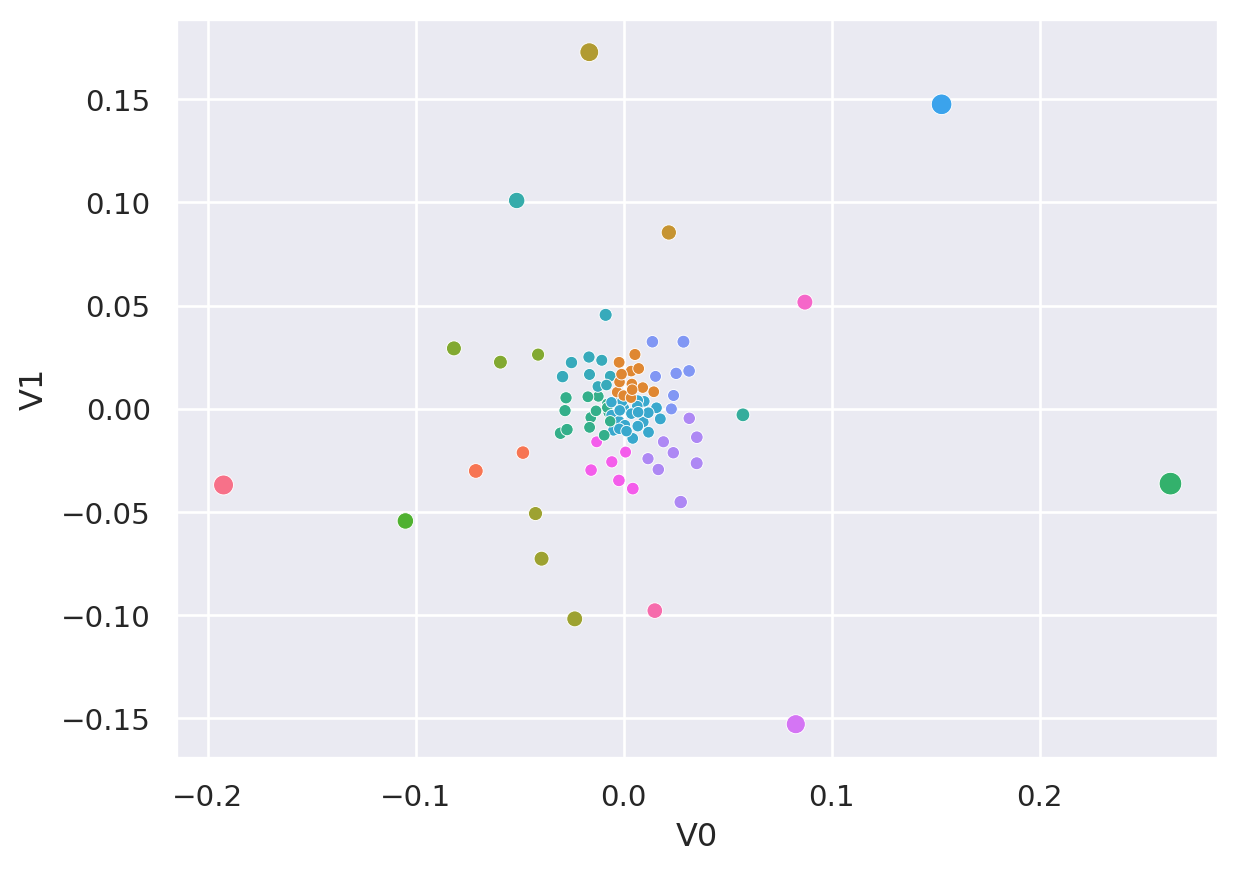
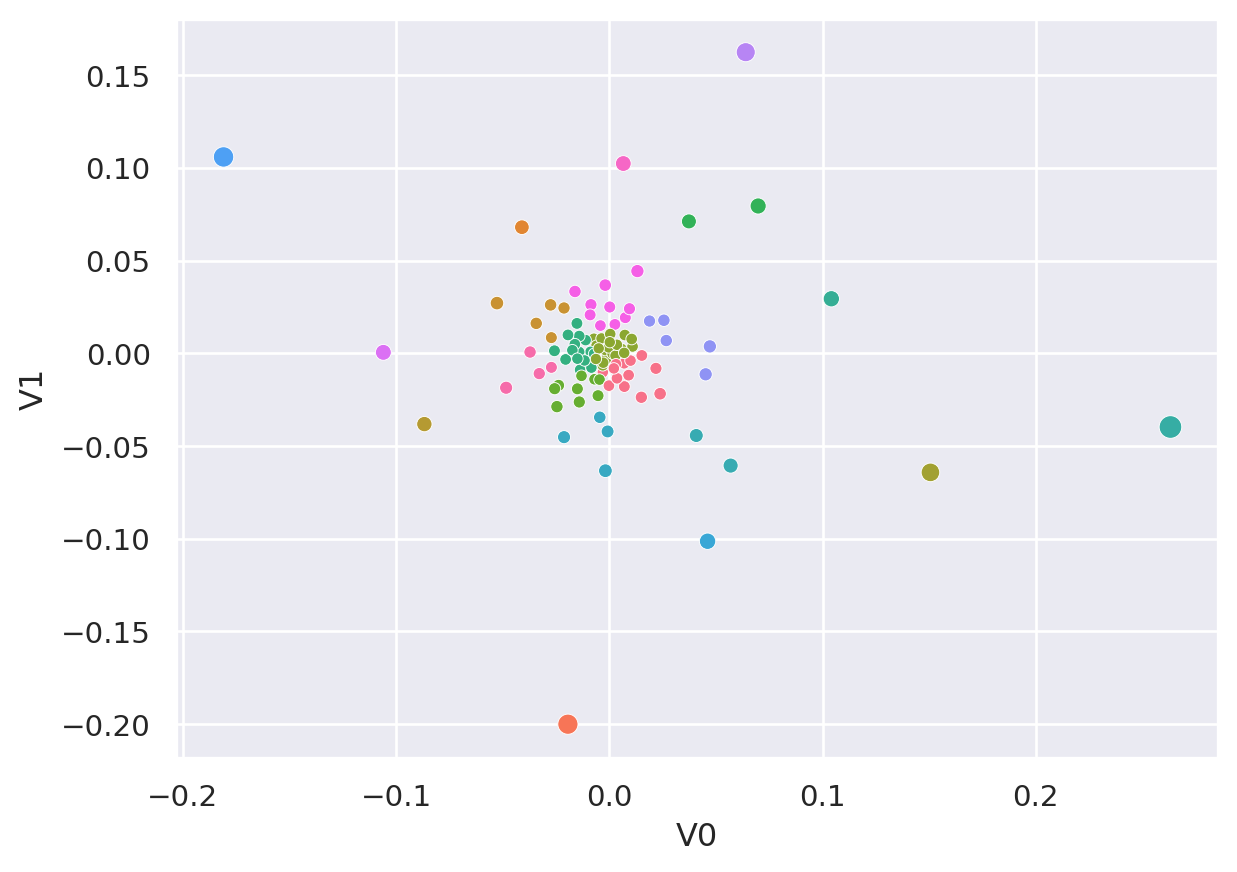
Added quarto presentation layer; updated requirements.txt

diff --git a/quarto/gcp_public_datasets.html b/quarto/gcp_public_datasets.html
@@ -7,7 +7,7 @@
 <meta name="viewport" content="width=device-width, initial-scale=1.0, user-scalable=yes">
 
 
-<title>Quarto Basics</title>
+<title>Python Package Clustering</title>
 <style>
 code{white-space: pre-wrap;}
 span.smallcaps{font-variant: small-caps;}
@@ -57,7 +57,7 @@ pre > code.sourceCode > span > a:first-child::before { text-decoration: underlin
 </style>
 
 
-<script src="gcp_public_datasets_files/libs/clipboard/clipboard.min.js"></script>
+<script src="https://cdnjs.cloudflare.com/ajax/libs/jquery/3.5.1/jquery.min.js" integrity="sha512-bLT0Qm9VnAYZDflyKcBaQ2gg0hSYNQrJ8RilYldYQ1FxQYoCLtUjuuRuZo+fjqhx/qtq/1itJ0C2ejDxltZVFg==" crossorigin="anonymous"></script><script src="gcp_public_datasets_files/libs/clipboard/clipboard.min.js"></script>
 <script src="gcp_public_datasets_files/libs/quarto-html/quarto.js"></script>
 <script src="gcp_public_datasets_files/libs/quarto-html/popper.min.js"></script>
 <script src="gcp_public_datasets_files/libs/quarto-html/tippy.umd.min.js"></script>
@@ -67,6 +67,25 @@ pre > code.sourceCode > span > a:first-child::before { text-decoration: underlin
 <script src="gcp_public_datasets_files/libs/bootstrap/bootstrap.min.js"></script>
 <link href="gcp_public_datasets_files/libs/bootstrap/bootstrap-icons.css" rel="stylesheet">
 <link href="gcp_public_datasets_files/libs/bootstrap/bootstrap.min.css" rel="stylesheet" id="quarto-bootstrap" data-mode="light">
+<script src="https://cdnjs.cloudflare.com/ajax/libs/require.js/2.3.6/require.min.js" integrity="sha512-c3Nl8+7g4LMSTdrm621y7kf9v3SDPnhxLNhcjFJbKECVnmZHTdo+IRO05sNLTH/D3vA6u1X32ehoLC7WFVdheg==" crossorigin="anonymous"></script>
+
+<script type="application/javascript">define('jquery', [],function() {return window.jQuery;})</script>
+<script type="text/javascript">
+window.PlotlyConfig = {MathJaxConfig: 'local'};
+if (window.MathJax && window.MathJax.Hub && window.MathJax.Hub.Config) {window.MathJax.Hub.Config({SVG: {font: "STIX-Web"}});}
+if (typeof require !== 'undefined') {
+require.undef("plotly");
+requirejs.config({
+    paths: {
+        'plotly': ['https://cdn.plot.ly/plotly-2.35.2.min']
+    }
+});
+require(['plotly'], function(Plotly) {
+    window._Plotly = Plotly;
+});
+}
+</script>
+
 
 
 </head>
@@ -79,7 +98,7 @@ pre > code.sourceCode > span > a:first-child::before { text-decoration: underlin
 
 <header id="title-block-header" class="quarto-title-block default">
 <div class="quarto-title">
-<h1 class="title">Quarto Basics</h1>
+<h1 class="title">Python Package Clustering</h1>
 </div>
 
 
@@ -110,7 +129,7 @@ pre > code.sourceCode > span > a:first-child::before { text-decoration: underlin
 <span id="cb1-9"><a href="#cb1-9" aria-hidden="true" tabindex="-1"></a><span class="im">import</span> os</span>
 <span id="cb1-10"><a href="#cb1-10" aria-hidden="true" tabindex="-1"></a></span>
 <span id="cb1-11"><a href="#cb1-11" aria-hidden="true" tabindex="-1"></a><span class="co"># import plotting libraries</span></span>
-<span id="cb1-12"><a href="#cb1-12" aria-hidden="true" tabindex="-1"></a><span class="im">import</span> seaborn <span class="im">as</span> sns</span>
+<span id="cb1-12"><a href="#cb1-12" aria-hidden="true" tabindex="-1"></a><span class="im">import</span> plotly.express <span class="im">as</span> px</span>
 <span id="cb1-13"><a href="#cb1-13" aria-hidden="true" tabindex="-1"></a></span>
 <span id="cb1-14"><a href="#cb1-14" aria-hidden="true" tabindex="-1"></a><span class="co"># ---------------</span></span>
 <span id="cb1-15"><a href="#cb1-15" aria-hidden="true" tabindex="-1"></a><span class="co"># ---Pull Data---</span></span>
@@ -122,36 +141,67 @@ pre > code.sourceCode > span > a:first-child::before { text-decoration: underlin
 <span id="cb1-21"><a href="#cb1-21" aria-hidden="true" tabindex="-1"></a><span class="co"># read data to df</span></span>
 <span id="cb1-22"><a href="#cb1-22" aria-hidden="true" tabindex="-1"></a>df <span class="op">=</span> pd.read_csv(prod_path, index_col<span class="op">=</span><span class="st">"package"</span>)</span>
 <span id="cb1-23"><a href="#cb1-23" aria-hidden="true" tabindex="-1"></a></span>
-<span id="cb1-24"><a href="#cb1-24" aria-hidden="true" tabindex="-1"></a><span class="co"># ---------------</span></span>
-<span id="cb1-25"><a href="#cb1-25" aria-hidden="true" tabindex="-1"></a><span class="co"># ---Plot Data---</span></span>
-<span id="cb1-26"><a href="#cb1-26" aria-hidden="true" tabindex="-1"></a><span class="co"># ---------------</span></span>
-<span id="cb1-27"><a href="#cb1-27" aria-hidden="true" tabindex="-1"></a></span>
-<span id="cb1-28"><a href="#cb1-28" aria-hidden="true" tabindex="-1"></a><span class="co"># set plotting config</span></span>
-<span id="cb1-29"><a href="#cb1-29" aria-hidden="true" tabindex="-1"></a>sns.set_theme(style<span class="op">=</span><span class="st">"darkgrid"</span>)</span>
-<span id="cb1-30"><a href="#cb1-30" aria-hidden="true" tabindex="-1"></a>size_scaler <span class="op">=</span> <span class="dv">10</span><span class="op">**-</span><span class="dv">3</span></span>
-<span id="cb1-31"><a href="#cb1-31" aria-hidden="true" tabindex="-1"></a></span>
-<span id="cb1-32"><a href="#cb1-32" aria-hidden="true" tabindex="-1"></a><span class="co"># plot scatterplot of package distances</span></span>
-<span id="cb1-33"><a href="#cb1-33" aria-hidden="true" tabindex="-1"></a>scatterplot <span class="op">=</span> sns.scatterplot(</span>
-<span id="cb1-34"><a href="#cb1-34" aria-hidden="true" tabindex="-1"></a>    data<span class="op">=</span>df,</span>
-<span id="cb1-35"><a href="#cb1-35" aria-hidden="true" tabindex="-1"></a>    x<span class="op">=</span>df[<span class="st">"V0"</span>],</span>
-<span id="cb1-36"><a href="#cb1-36" aria-hidden="true" tabindex="-1"></a>    y<span class="op">=</span>df[<span class="st">"V1"</span>],</span>
-<span id="cb1-37"><a href="#cb1-37" aria-hidden="true" tabindex="-1"></a>    size<span class="op">=</span>df[<span class="st">"count"</span>].<span class="bu">apply</span>(<span class="kw">lambda</span> x: size_scaler <span class="op">*</span> x),</span>
-<span id="cb1-38"><a href="#cb1-38" aria-hidden="true" tabindex="-1"></a>    hue<span class="op">=</span>df[<span class="st">"cluster"</span>],</span>
-<span id="cb1-39"><a href="#cb1-39" aria-hidden="true" tabindex="-1"></a>    palette<span class="op">=</span>sns.color_palette(<span class="st">"husl"</span>, <span class="bu">len</span>(df[<span class="st">"cluster"</span>].unique())),</span>
-<span id="cb1-40"><a href="#cb1-40" aria-hidden="true" tabindex="-1"></a>    legend<span class="op">=</span><span class="va">False</span>,</span>
-<span id="cb1-41"><a href="#cb1-41" aria-hidden="true" tabindex="-1"></a>)</span></code><button title="Copy to Clipboard" class="code-copy-button"><i class="bi"></i></button></pre></div>
+<span id="cb1-24"><a href="#cb1-24" aria-hidden="true" tabindex="-1"></a><span class="co"># convert "cluster" col to str</span></span>
+<span id="cb1-25"><a href="#cb1-25" aria-hidden="true" tabindex="-1"></a>df[<span class="st">"cluster"</span>] <span class="op">=</span> df[<span class="st">"cluster"</span>].astype(<span class="bu">str</span>)</span>
+<span id="cb1-26"><a href="#cb1-26" aria-hidden="true" tabindex="-1"></a></span>
+<span id="cb1-27"><a href="#cb1-27" aria-hidden="true" tabindex="-1"></a><span class="co"># ---------------</span></span>
+<span id="cb1-28"><a href="#cb1-28" aria-hidden="true" tabindex="-1"></a><span class="co"># ---Plot Data---</span></span>
+<span id="cb1-29"><a href="#cb1-29" aria-hidden="true" tabindex="-1"></a><span class="co"># ---------------</span></span>
+<span id="cb1-30"><a href="#cb1-30" aria-hidden="true" tabindex="-1"></a></span>
+<span id="cb1-31"><a href="#cb1-31" aria-hidden="true" tabindex="-1"></a><span class="co"># set plotting config</span></span>
+<span id="cb1-32"><a href="#cb1-32" aria-hidden="true" tabindex="-1"></a>size_scaler <span class="op">=</span> <span class="dv">10</span><span class="op">**-</span><span class="dv">3</span></span>
+<span id="cb1-33"><a href="#cb1-33" aria-hidden="true" tabindex="-1"></a></span>
+<span id="cb1-34"><a href="#cb1-34" aria-hidden="true" tabindex="-1"></a><span class="co"># plot scatterplot of package distances</span></span>
+<span id="cb1-35"><a href="#cb1-35" aria-hidden="true" tabindex="-1"></a>scatterplot <span class="op">=</span> px.scatter(</span>
+<span id="cb1-36"><a href="#cb1-36" aria-hidden="true" tabindex="-1"></a>    data_frame<span class="op">=</span>df,</span>
+<span id="cb1-37"><a href="#cb1-37" aria-hidden="true" tabindex="-1"></a>    x<span class="op">=</span><span class="st">"V0"</span>,</span>
+<span id="cb1-38"><a href="#cb1-38" aria-hidden="true" tabindex="-1"></a>    y<span class="op">=</span><span class="st">"V1"</span>,</span>
+<span id="cb1-39"><a href="#cb1-39" aria-hidden="true" tabindex="-1"></a>    size<span class="op">=</span>df[<span class="st">"count"</span>].<span class="bu">apply</span>(<span class="kw">lambda</span> x: size_scaler <span class="op">*</span> x),</span>
+<span id="cb1-40"><a href="#cb1-40" aria-hidden="true" tabindex="-1"></a>    color<span class="op">=</span><span class="st">"cluster"</span>,</span>
+<span id="cb1-41"><a href="#cb1-41" aria-hidden="true" tabindex="-1"></a>    color_discrete_sequence<span class="op">=</span>px.colors.qualitative.Bold,</span>
+<span id="cb1-42"><a href="#cb1-42" aria-hidden="true" tabindex="-1"></a>    category_orders<span class="op">=</span>{<span class="st">"cluster"</span>: <span class="bu">sorted</span>(df[<span class="st">"cluster"</span>].unique(), key<span class="op">=</span><span class="bu">int</span>)},</span>
+<span id="cb1-43"><a href="#cb1-43" aria-hidden="true" tabindex="-1"></a>    text<span class="op">=</span>df.index,</span>
+<span id="cb1-44"><a href="#cb1-44" aria-hidden="true" tabindex="-1"></a>)</span>
+<span id="cb1-45"><a href="#cb1-45" aria-hidden="true" tabindex="-1"></a></span>
+<span id="cb1-46"><a href="#cb1-46" aria-hidden="true" tabindex="-1"></a><span class="co"># adjust text position</span></span>
+<span id="cb1-47"><a href="#cb1-47" aria-hidden="true" tabindex="-1"></a>scatterplot.update_traces(textposition<span class="op">=</span><span class="st">"top center"</span>)</span>
+<span id="cb1-48"><a href="#cb1-48" aria-hidden="true" tabindex="-1"></a></span>
+<span id="cb1-49"><a href="#cb1-49" aria-hidden="true" tabindex="-1"></a><span class="co"># show plot</span></span>
+<span id="cb1-50"><a href="#cb1-50" aria-hidden="true" tabindex="-1"></a>scatterplot.show()</span></code><button title="Copy to Clipboard" class="code-copy-button"><i class="bi"></i></button></pre></div>
 </details>
-<div class="cell-output cell-output-display">
-<div id="fig-python-packages" class="quarto-float quarto-figure quarto-figure-center anchored">
+<div id="fig-python-packages" class="cell-output cell-output-display quarto-float quarto-figure quarto-figure-center anchored">
 <figure class="quarto-float quarto-float-fig figure">
 <div aria-describedby="fig-python-packages-caption-0ceaefa1-69ba-4598-a22c-09a6ac19f8ca">
-<img src="gcp_public_datasets_files/figure-html/fig-python-packages-output-1.png" width="619" height="436" class="figure-img">
+<div>                            <div id="1b7842e2-5824-4198-ba36-a4876bd7f5f9" class="plotly-graph-div" style="height:525px; width:100%;"></div>            <script type="text/javascript">                require(["plotly"], function(Plotly) {                    window.PLOTLYENV=window.PLOTLYENV || {};                                    if (document.getElementById("1b7842e2-5824-4198-ba36-a4876bd7f5f9")) {                    Plotly.newPlot(                        "1b7842e2-5824-4198-ba36-a4876bd7f5f9",                        [{"hovertemplate":"cluster=0\u003cbr\u003eV0=%{x}\u003cbr\u003eV1=%{y}\u003cbr\u003esize=%{marker.size}\u003cbr\u003epackage=%{text}\u003cextra\u003e\u003c\u002fextra\u003e","legendgroup":"0","marker":{"color":"rgb(127, 60, 141)","size":[11.729000000000001,17.649,16.672,18.234,13.188,23.201,11.655,14.043000000000001,15.772,26.269000000000002,15.546000000000001,30.959,12.780000000000001],"sizemode":"area","sizeref":0.6725074999999999,"symbol":"circle"},"mode":"markers+text","name":"0","orientation":"v","showlegend":true,"text":["AnsibleModule","StringIO","_","db","distutils","matplotlib","openerp","pandas","swgpy","test","util","utils","xml"],"x":[-0.0030564957255296,0.0152386071752057,0.0090397580329389,0.0070442007438318,0.0069421216614221,0.0218568348074214,0.0031337760549723,0.0099351427556134,-0.0001919091902632,0.0150207218488203,0.0035872701453742,0.0238145806825034,0.0021315932142691],"xaxis":"x","y":[-0.0102289439289239,-0.0011898904404305,-0.0117993372975038,-0.0179668837084875,-0.0054316833528379,-0.0081440524227212,-0.0058858943188863,-0.0039568336648231,-0.0174663358535828,-0.0237386603885716,-0.0134827029618917,-0.0218259078791392,-0.0081552956130484],"yaxis":"y","type":"scatter","textposition":"top center"},{"hovertemplate":"cluster=1\u003cbr\u003eV0=%{x}\u003cbr\u003eV1=%{y}\u003cbr\u003esize=%{marker.size}\u003cbr\u003epackage=%{text}\u003cextra\u003e\u003c\u002fextra\u003e","legendgroup":"1","marker":{"color":"rgb(17, 165, 121)","size":[198.25300000000001],"sizemode":"area","sizeref":0.6725074999999999,"symbol":"circle"},"mode":"markers+text","name":"1","orientation":"v","showlegend":true,"text":["__future__"],"x":[-0.0194325001439445],"xaxis":"x","y":[-0.2000719507597643],"yaxis":"y","type":"scatter","textposition":"top center"},{"hovertemplate":"cluster=2\u003cbr\u003eV0=%{x}\u003cbr\u003eV1=%{y}\u003cbr\u003esize=%{marker.size}\u003cbr\u003epackage=%{text}\u003cextra\u003e\u003c\u002fextra\u003e","legendgroup":"2","marker":{"color":"rgb(57, 105, 172)","size":[69.748],"sizemode":"area","sizeref":0.6725074999999999,"symbol":"circle"},"mode":"markers+text","name":"2","orientation":"v","showlegend":true,"text":["a"],"x":[-0.0410102945650061],"xaxis":"x","y":[0.0680030318778531],"yaxis":"y","type":"scatter","textposition":"top center"},{"hovertemplate":"cluster=3\u003cbr\u003eV0=%{x}\u003cbr\u003eV1=%{y}\u003cbr\u003esize=%{marker.size}\u003cbr\u003epackage=%{text}\u003cextra\u003e\u003c\u002fextra\u003e","legendgroup":"3","marker":{"color":"rgb(242, 183, 1)","size":[28.018,48.528,26.053,21.519000000000002,29.798000000000002],"sizemode":"area","sizeref":0.6725074999999999,"symbol":"circle"},"mode":"markers+text","name":"3","orientation":"v","showlegend":true,"text":["argparse","collections","copy","scipy","shutil"],"x":[-0.0342804932178723,-0.0527021604637645,-0.0212576670367853,-0.0271997599113446,-0.0275524864981029],"xaxis":"x","y":[0.0161291710938576,0.0270554698578215,0.0244276631258182,0.0084348273412219,0.0260954136008967],"yaxis":"y","type":"scatter","textposition":"top center"},{"hovertemplate":"cluster=4\u003cbr\u003eV0=%{x}\u003cbr\u003eV1=%{y}\u003cbr\u003esize=%{marker.size}\u003cbr\u003epackage=%{text}\u003cextra\u003e\u003c\u002fextra\u003e","legendgroup":"4","marker":{"color":"rgb(231, 63, 116)","size":[82.849],"sizemode":"area","sizeref":0.6725074999999999,"symbol":"circle"},"mode":"markers+text","name":"4","orientation":"v","showlegend":true,"text":["datetime"],"x":[-0.0867603486450543],"xaxis":"x","y":[-0.0382062177754234],"yaxis":"y","type":"scatter","textposition":"top center"},{"hovertemplate":"cluster=5\u003cbr\u003eV0=%{x}\u003cbr\u003eV1=%{y}\u003cbr\u003esize=%{marker.size}\u003cbr\u003epackage=%{text}\u003cextra\u003e\u003c\u002fextra\u003e","legendgroup":"5","marker":{"color":"rgb(128, 186, 90)","size":[157.721],"sizemode":"area","sizeref":0.6725074999999999,"symbol":"circle"},"mode":"markers+text","name":"5","orientation":"v","showlegend":true,"text":["django"],"x":[0.1506101974330727],"xaxis":"x","y":[-0.064250098666103],"yaxis":"y","type":"scatter","textposition":"top center"},{"hovertemplate":"cluster=6\u003cbr\u003eV0=%{x}\u003cbr\u003eV1=%{y}\u003cbr\u003esize=%{marker.size}\u003cbr\u003epackage=%{text}\u003cextra\u003e\u003c\u002fextra\u003e","legendgroup":"6","marker":{"color":"rgb(230, 131, 16)","size":[11.849,11.205,15.344000000000001,11.014,11.024000000000001,12.097,11.535,11.392,14.574,10.591000000000001,11.641,11.238,11.93,11.519,10.562,10.932,13.465,11.037,12.136000000000001,15.655000000000001],"sizemode":"area","sizeref":0.6725074999999999,"symbol":"circle"},"mode":"markers+text","name":"6","orientation":"v","showlegend":true,"text":["annotations","api","base","cfg","constants","contextlib","exception","exceptions","glob","google","http","inspect","operator","patch","pickle","sklearn","struct","twisted","urlparse","uuid"],"x":[-0.0072248465811589,-0.003117314860789,0.007263688214129,-0.0012522456398534,-0.006034933565708,0.005693815747021,-0.0018211702392988,0.0014680168413975,0.0108981062619052,-0.0003034438098467,-0.0036697684177164,0.0028779439547834,0.0035728656559651,-0.0028530645306932,-0.0049745162831085,-0.0062943156316463,0.000419450317287,0.0002190273347292,0.0069674515470099,0.0104788796302343],"xaxis":"x","y":[0.0078580908571742,-0.0065413579093439,0.0098342622557214,-0.0027160025701266,0.0041341183053648,0.0023806221748643,0.0016901902407274,-0.0001901998357807,0.0036706405682189,0.0031365271665244,0.0080146927765095,-0.001282391160767,0.0045868553403744,-0.0050995672365965,0.0026242264597087,-0.0030977500814113,0.0103612619332171,0.0059636352338345,0.0002218913568116,0.0076877877100688],"yaxis":"y","type":"scatter","textposition":"top center"},{"hovertemplate":"cluster=7\u003cbr\u003eV0=%{x}\u003cbr\u003eV1=%{y}\u003cbr\u003esize=%{marker.size}\u003cbr\u003epackage=%{text}\u003cextra\u003e\u003c\u002fextra\u003e","legendgroup":"7","marker":{"color":"rgb(0, 134, 149)","size":[22.551000000000002,14.761000000000001,27.722,14.446,24.274,20.447,20.677,15.103,23.79],"sizemode":"area","sizeref":0.6725074999999999,"symbol":"circle"},"mode":"markers+text","name":"7","orientation":"v","showlegend":true,"text":["TestCase","User","ansible","flask","itertools","log","socket","sqlalchemy","threading"],"x":[-0.0237993383738243,-0.0069409857804068,-0.024576393959059,-0.0046072796846482,-0.0140932899029212,-0.0149818756083307,-0.0053004501483079,-0.0130568936938386,-0.0256464583831693],"xaxis":"x","y":[-0.0173089928950033,-0.0140051558085294,-0.0287827487455751,-0.0141935837817949,-0.0262736815270738,-0.0191788621868948,-0.0228610336506245,-0.012168559265988,-0.0191088589487285],"yaxis":"y","type":"scatter","textposition":"top center"},{"hovertemplate":"cluster=8\u003cbr\u003eV0=%{x}\u003cbr\u003eV1=%{y}\u003cbr\u003esize=%{marker.size}\u003cbr\u003epackage=%{text}\u003cextra\u003e\u003c\u002fextra\u003e","legendgroup":"8","marker":{"color":"rgb(207, 28, 144)","size":[75.794,99.57000000000001],"sizemode":"area","sizeref":0.6725074999999999,"symbol":"circle"},"mode":"markers+text","name":"8","orientation":"v","showlegend":true,"text":["json","logging"],"x":[0.0373237134131095,0.0698015714173528],"xaxis":"x","y":[0.0711192966536628,0.0794386896031505],"yaxis":"y","type":"scatter","textposition":"top center"},{"hovertemplate":"cluster=9\u003cbr\u003eV0=%{x}\u003cbr\u003eV1=%{y}\u003cbr\u003esize=%{marker.size}\u003cbr\u003epackage=%{text}\u003cextra\u003e\u003c\u002fextra\u003e","legendgroup":"9","marker":{"color":"rgb(249, 123, 114)","size":[16.726,14.11,14.706,10.529,15.686,13.713000000000001,14.256,12.801,15.404,17.126,13.958,18.687,19.034,12.682,13.527000000000001],"sizemode":"area","sizeref":0.6725074999999999,"symbol":"circle"},"mode":"markers+text","name":"9","orientation":"v","showlegend":true,"text":["an","base64","common","defaultdict","migrations","nose","optparse","platform","reverse","setup","setuptools","string","tests","types","which"],"x":[-0.0205108665010106,-0.011134774150139,-0.0137121162352897,-0.0088658966245711,-0.0141136611588146,-0.0141424960575746,-0.0071355913095797,-0.0084083007591221,-0.0161858026965625,-0.0193991984886908,-0.017345731514054,-0.0151961432216235,-0.0257424063448764,-0.0116271395844758,-0.0149822447740023],"xaxis":"x","y":[-0.0033278693649412,0.0071044127172935,-0.0089244292561481,0.0008107374793226,0.0092834904227876,0.0007068767855627,-0.0003173229901511,-0.0077508309575663,0.0048851261926692,0.0098886895080098,0.0016583779475253,0.016109132250159,0.001340041916952,-0.0038861691511184,-0.0029148576710039],"yaxis":"y","type":"scatter","textposition":"top center"},{"hovertemplate":"cluster=10\u003cbr\u003eV0=%{x}\u003cbr\u003eV1=%{y}\u003cbr\u003esize=%{marker.size}\u003cbr\u003epackage=%{text}\u003cextra\u003e\u003c\u002fextra\u003e","legendgroup":"10","marker":{"color":"rgb(165, 170, 153)","size":[103.123],"sizemode":"area","sizeref":0.6725074999999999,"symbol":"circle"},"mode":"markers+text","name":"10","orientation":"v","showlegend":true,"text":["numpy"],"x":[0.1041293346731849],"xaxis":"x","y":[0.0293953647184134],"yaxis":"y","type":"scatter","textposition":"top center"},{"hovertemplate":"cluster=11\u003cbr\u003eV0=%{x}\u003cbr\u003eV1=%{y}\u003cbr\u003esize=%{marker.size}\u003cbr\u003epackage=%{text}\u003cextra\u003e\u003c\u002fextra\u003e","legendgroup":"11","marker":{"color":"rgb(127, 60, 141)","size":[269.003],"sizemode":"area","sizeref":0.6725074999999999,"symbol":"circle"},"mode":"markers+text","name":"11","orientation":"v","showlegend":true,"text":["os"],"x":[0.2631861028890674],"xaxis":"x","y":[-0.0397714316911625],"yaxis":"y","type":"scatter","textposition":"top center"},{"hovertemplate":"cluster=12\u003cbr\u003eV0=%{x}\u003cbr\u003eV1=%{y}\u003cbr\u003esize=%{marker.size}\u003cbr\u003epackage=%{text}\u003cextra\u003e\u003c\u002fextra\u003e","legendgroup":"12","marker":{"color":"rgb(17, 165, 121)","size":[77.756,56.153],"sizemode":"area","sizeref":0.6725074999999999,"symbol":"circle"},"mode":"markers+text","name":"12","orientation":"v","showlegend":true,"text":["absolute_import","print_function"],"x":[0.056886857699811,0.04078463997694],"xaxis":"x","y":[-0.0605842823370143,-0.0443570533475344],"yaxis":"y","type":"scatter","textposition":"top center"},{"hovertemplate":"cluster=13\u003cbr\u003eV0=%{x}\u003cbr\u003eV1=%{y}\u003cbr\u003esize=%{marker.size}\u003cbr\u003epackage=%{text}\u003cextra\u003e\u003c\u002fextra\u003e","legendgroup":"13","marker":{"color":"rgb(57, 105, 172)","size":[29.637,35.948,40.082,51.721000000000004],"sizemode":"area","sizeref":0.6725074999999999,"symbol":"circle"},"mode":"markers+text","name":"13","orientation":"v","showlegend":true,"text":["mock","random","six","unicode_literals"],"x":[-0.0044889584466469,-0.0008181304012349,-0.0212441306098008,-0.001838771180267],"xaxis":"x","y":[-0.0345321954396901,-0.0421704848400098,-0.0452467713134155,-0.0633472376416514],"yaxis":"y","type":"scatter","textposition":"top center"},{"hovertemplate":"cluster=14\u003cbr\u003eV0=%{x}\u003cbr\u003eV1=%{y}\u003cbr\u003esize=%{marker.size}\u003cbr\u003epackage=%{text}\u003cextra\u003e\u003c\u002fextra\u003e","legendgroup":"14","marker":{"color":"rgb(242, 183, 1)","size":[105.208],"sizemode":"area","sizeref":0.6725074999999999,"symbol":"circle"},"mode":"markers+text","name":"14","orientation":"v","showlegend":true,"text":["re"],"x":[0.046077897440264],"xaxis":"x","y":[-0.1013825152214866],"yaxis":"y","type":"scatter","textposition":"top center"},{"hovertemplate":"cluster=15\u003cbr\u003eV0=%{x}\u003cbr\u003eV1=%{y}\u003cbr\u003esize=%{marker.size}\u003cbr\u003epackage=%{text}\u003cextra\u003e\u003c\u002fextra\u003e","legendgroup":"15","marker":{"color":"rgb(231, 63, 116)","size":[204.094],"sizemode":"area","sizeref":0.6725074999999999,"symbol":"circle"},"mode":"markers+text","name":"15","orientation":"v","showlegend":true,"text":["sys"],"x":[-0.1809491076053719],"xaxis":"x","y":[0.1058920115973008],"yaxis":"y","type":"scatter","textposition":"top center"},{"hovertemplate":"cluster=16\u003cbr\u003eV0=%{x}\u003cbr\u003eV1=%{y}\u003cbr\u003esize=%{marker.size}\u003cbr\u003epackage=%{text}\u003cextra\u003e\u003c\u002fextra\u003e","legendgroup":"16","marker":{"color":"rgb(128, 186, 90)","size":[28.854,43.195,42.975,27.908,25.328],"sizemode":"area","sizeref":0.6725074999999999,"symbol":"circle"},"mode":"markers+text","name":"16","orientation":"v","showlegend":true,"text":["math","models","settings","tempfile","urllib"],"x":[0.0255903017669051,0.0471499706355073,0.0451843759193871,0.0267067617261617,0.018844814350475],"xaxis":"x","y":[0.0178039388653171,0.0037156838272184,-0.0113531123809059,0.0068623363629956,0.0173887557408668],"yaxis":"y","type":"scatter","textposition":"top center"},{"hovertemplate":"cluster=17\u003cbr\u003eV0=%{x}\u003cbr\u003eV1=%{y}\u003cbr\u003esize=%{marker.size}\u003cbr\u003epackage=%{text}\u003cextra\u003e\u003c\u002fextra\u003e","legendgroup":"17","marker":{"color":"rgb(230, 131, 16)","size":[169.889],"sizemode":"area","sizeref":0.6725074999999999,"symbol":"circle"},"mode":"markers+text","name":"17","orientation":"v","showlegend":true,"text":["the"],"x":[0.0639794200957374],"xaxis":"x","y":[0.1623866935439232],"yaxis":"y","type":"scatter","textposition":"top center"},{"hovertemplate":"cluster=18\u003cbr\u003eV0=%{x}\u003cbr\u003eV1=%{y}\u003cbr\u003esize=%{marker.size}\u003cbr\u003epackage=%{text}\u003cextra\u003e\u003c\u002fextra\u003e","legendgroup":"18","marker":{"color":"rgb(0, 134, 149)","size":[94.67],"sizemode":"area","sizeref":0.6725074999999999,"symbol":"circle"},"mode":"markers+text","name":"18","orientation":"v","showlegend":true,"text":["time"],"x":[-0.1059914255611308],"xaxis":"x","y":[0.0004960874508797],"yaxis":"y","type":"scatter","textposition":"top center"},{"hovertemplate":"cluster=19\u003cbr\u003eV0=%{x}\u003cbr\u003eV1=%{y}\u003cbr\u003esize=%{marker.size}\u003cbr\u003epackage=%{text}\u003cextra\u003e\u003c\u002fextra\u003e","legendgroup":"19","marker":{"color":"rgb(207, 28, 144)","size":[20.48,42.63,23.776,16.449,23.001,17.372,30.441,20.107,28.869,22.236],"sizemode":"area","sizeref":0.6725074999999999,"symbol":"circle"},"mode":"markers+text","name":"19","orientation":"v","showlegend":true,"text":["config","division","functools","hashlib","homeassistant","io","pytest","requests","this","typing"],"x":[0.0074955486894019,0.0131609329361706,-0.0086350586873293,-0.0041844332573317,0.0094477018503359,0.002622632027909,-0.0019251457832084,-0.0090142029566322,-0.0161170689386776,0.0001877851895358],"xaxis":"x","y":[0.0192055965224234,0.0443162013463706,0.0262112791835364,0.0149394190949381,0.0240250460800804,0.0155678322975581,0.0367605004295201,0.0207107149565284,0.0333281208646109,0.0249572108144349],"yaxis":"y","type":"scatter","textposition":"top center"},{"hovertemplate":"cluster=20\u003cbr\u003eV0=%{x}\u003cbr\u003eV1=%{y}\u003cbr\u003esize=%{marker.size}\u003cbr\u003epackage=%{text}\u003cextra\u003e\u003c\u002fextra\u003e","legendgroup":"20","marker":{"color":"rgb(249, 123, 114)","size":[92.525],"sizemode":"area","sizeref":0.6725074999999999,"symbol":"circle"},"mode":"markers+text","name":"20","orientation":"v","showlegend":true,"text":["unittest"],"x":[0.0065561766287108],"xaxis":"x","y":[0.1023391421566408],"yaxis":"y","type":"scatter","textposition":"top center"},{"hovertemplate":"cluster=21\u003cbr\u003eV0=%{x}\u003cbr\u003eV1=%{y}\u003cbr\u003esize=%{marker.size}\u003cbr\u003epackage=%{text}\u003cextra\u003e\u003c\u002fextra\u003e","legendgroup":"21","marker":{"color":"rgb(165, 170, 153)","size":[40.31,28.005,21.392,25.755],"sizemode":"area","sizeref":0.6725074999999999,"symbol":"circle"},"mode":"markers+text","name":"21","orientation":"v","showlegend":true,"text":["subprocess","tensorflow","traceback","warnings"],"x":[-0.0484007923437834,-0.0371870819304658,-0.0271751856186623,-0.0328660261529512],"xaxis":"x","y":[-0.0185964648231084,0.0006712441609612,-0.0075938460689537,-0.0109621216359638],"yaxis":"y","type":"scatter","textposition":"top center"}],                        {"template":{"data":{"histogram2dcontour":[{"type":"histogram2dcontour","colorbar":{"outlinewidth":0,"ticks":""},"colorscale":[[0.0,"#0d0887"],[0.1111111111111111,"#46039f"],[0.2222222222222222,"#7201a8"],[0.3333333333333333,"#9c179e"],[0.4444444444444444,"#bd3786"],[0.5555555555555556,"#d8576b"],[0.6666666666666666,"#ed7953"],[0.7777777777777778,"#fb9f3a"],[0.8888888888888888,"#fdca26"],[1.0,"#f0f921"]]}],"choropleth":[{"type":"choropleth","colorbar":{"outlinewidth":0,"ticks":""}}],"histogram2d":[{"type":"histogram2d","colorbar":{"outlinewidth":0,"ticks":""},"colorscale":[[0.0,"#0d0887"],[0.1111111111111111,"#46039f"],[0.2222222222222222,"#7201a8"],[0.3333333333333333,"#9c179e"],[0.4444444444444444,"#bd3786"],[0.5555555555555556,"#d8576b"],[0.6666666666666666,"#ed7953"],[0.7777777777777778,"#fb9f3a"],[0.8888888888888888,"#fdca26"],[1.0,"#f0f921"]]}],"heatmap":[{"type":"heatmap","colorbar":{"outlinewidth":0,"ticks":""},"colorscale":[[0.0,"#0d0887"],[0.1111111111111111,"#46039f"],[0.2222222222222222,"#7201a8"],[0.3333333333333333,"#9c179e"],[0.4444444444444444,"#bd3786"],[0.5555555555555556,"#d8576b"],[0.6666666666666666,"#ed7953"],[0.7777777777777778,"#fb9f3a"],[0.8888888888888888,"#fdca26"],[1.0,"#f0f921"]]}],"heatmapgl":[{"type":"heatmapgl","colorbar":{"outlinewidth":0,"ticks":""},"colorscale":[[0.0,"#0d0887"],[0.1111111111111111,"#46039f"],[0.2222222222222222,"#7201a8"],[0.3333333333333333,"#9c179e"],[0.4444444444444444,"#bd3786"],[0.5555555555555556,"#d8576b"],[0.6666666666666666,"#ed7953"],[0.7777777777777778,"#fb9f3a"],[0.8888888888888888,"#fdca26"],[1.0,"#f0f921"]]}],"contourcarpet":[{"type":"contourcarpet","colorbar":{"outlinewidth":0,"ticks":""}}],"contour":[{"type":"contour","colorbar":{"outlinewidth":0,"ticks":""},"colorscale":[[0.0,"#0d0887"],[0.1111111111111111,"#46039f"],[0.2222222222222222,"#7201a8"],[0.3333333333333333,"#9c179e"],[0.4444444444444444,"#bd3786"],[0.5555555555555556,"#d8576b"],[0.6666666666666666,"#ed7953"],[0.7777777777777778,"#fb9f3a"],[0.8888888888888888,"#fdca26"],[1.0,"#f0f921"]]}],"surface":[{"type":"surface","colorbar":{"outlinewidth":0,"ticks":""},"colorscale":[[0.0,"#0d0887"],[0.1111111111111111,"#46039f"],[0.2222222222222222,"#7201a8"],[0.3333333333333333,"#9c179e"],[0.4444444444444444,"#bd3786"],[0.5555555555555556,"#d8576b"],[0.6666666666666666,"#ed7953"],[0.7777777777777778,"#fb9f3a"],[0.8888888888888888,"#fdca26"],[1.0,"#f0f921"]]}],"mesh3d":[{"type":"mesh3d","colorbar":{"outlinewidth":0,"ticks":""}}],"scatter":[{"fillpattern":{"fillmode":"overlay","size":10,"solidity":0.2},"type":"scatter"}],"parcoords":[{"type":"parcoords","line":{"colorbar":{"outlinewidth":0,"ticks":""}}}],"scatterpolargl":[{"type":"scatterpolargl","marker":{"colorbar":{"outlinewidth":0,"ticks":""}}}],"bar":[{"error_x":{"color":"#2a3f5f"},"error_y":{"color":"#2a3f5f"},"marker":{"line":{"color":"#E5ECF6","width":0.5},"pattern":{"fillmode":"overlay","size":10,"solidity":0.2}},"type":"bar"}],"scattergeo":[{"type":"scattergeo","marker":{"colorbar":{"outlinewidth":0,"ticks":""}}}],"scatterpolar":[{"type":"scatterpolar","marker":{"colorbar":{"outlinewidth":0,"ticks":""}}}],"histogram":[{"marker":{"pattern":{"fillmode":"overlay","size":10,"solidity":0.2}},"type":"histogram"}],"scattergl":[{"type":"scattergl","marker":{"colorbar":{"outlinewidth":0,"ticks":""}}}],"scatter3d":[{"type":"scatter3d","line":{"colorbar":{"outlinewidth":0,"ticks":""}},"marker":{"colorbar":{"outlinewidth":0,"ticks":""}}}],"scattermapbox":[{"type":"scattermapbox","marker":{"colorbar":{"outlinewidth":0,"ticks":""}}}],"scatterternary":[{"type":"scatterternary","marker":{"colorbar":{"outlinewidth":0,"ticks":""}}}],"scattercarpet":[{"type":"scattercarpet","marker":{"colorbar":{"outlinewidth":0,"ticks":""}}}],"carpet":[{"aaxis":{"endlinecolor":"#2a3f5f","gridcolor":"white","linecolor":"white","minorgridcolor":"white","startlinecolor":"#2a3f5f"},"baxis":{"endlinecolor":"#2a3f5f","gridcolor":"white","linecolor":"white","minorgridcolor":"white","startlinecolor":"#2a3f5f"},"type":"carpet"}],"table":[{"cells":{"fill":{"color":"#EBF0F8"},"line":{"color":"white"}},"header":{"fill":{"color":"#C8D4E3"},"line":{"color":"white"}},"type":"table"}],"barpolar":[{"marker":{"line":{"color":"#E5ECF6","width":0.5},"pattern":{"fillmode":"overlay","size":10,"solidity":0.2}},"type":"barpolar"}],"pie":[{"automargin":true,"type":"pie"}]},"layout":{"autotypenumbers":"strict","colorway":["#636efa","#EF553B","#00cc96","#ab63fa","#FFA15A","#19d3f3","#FF6692","#B6E880","#FF97FF","#FECB52"],"font":{"color":"#2a3f5f"},"hovermode":"closest","hoverlabel":{"align":"left"},"paper_bgcolor":"white","plot_bgcolor":"#E5ECF6","polar":{"bgcolor":"#E5ECF6","angularaxis":{"gridcolor":"white","linecolor":"white","ticks":""},"radialaxis":{"gridcolor":"white","linecolor":"white","ticks":""}},"ternary":{"bgcolor":"#E5ECF6","aaxis":{"gridcolor":"white","linecolor":"white","ticks":""},"baxis":{"gridcolor":"white","linecolor":"white","ticks":""},"caxis":{"gridcolor":"white","linecolor":"white","ticks":""}},"coloraxis":{"colorbar":{"outlinewidth":0,"ticks":""}},"colorscale":{"sequential":[[0.0,"#0d0887"],[0.1111111111111111,"#46039f"],[0.2222222222222222,"#7201a8"],[0.3333333333333333,"#9c179e"],[0.4444444444444444,"#bd3786"],[0.5555555555555556,"#d8576b"],[0.6666666666666666,"#ed7953"],[0.7777777777777778,"#fb9f3a"],[0.8888888888888888,"#fdca26"],[1.0,"#f0f921"]],"sequentialminus":[[0.0,"#0d0887"],[0.1111111111111111,"#46039f"],[0.2222222222222222,"#7201a8"],[0.3333333333333333,"#9c179e"],[0.4444444444444444,"#bd3786"],[0.5555555555555556,"#d8576b"],[0.6666666666666666,"#ed7953"],[0.7777777777777778,"#fb9f3a"],[0.8888888888888888,"#fdca26"],[1.0,"#f0f921"]],"diverging":[[0,"#8e0152"],[0.1,"#c51b7d"],[0.2,"#de77ae"],[0.3,"#f1b6da"],[0.4,"#fde0ef"],[0.5,"#f7f7f7"],[0.6,"#e6f5d0"],[0.7,"#b8e186"],[0.8,"#7fbc41"],[0.9,"#4d9221"],[1,"#276419"]]},"xaxis":{"gridcolor":"white","linecolor":"white","ticks":"","title":{"standoff":15},"zerolinecolor":"white","automargin":true,"zerolinewidth":2},"yaxis":{"gridcolor":"white","linecolor":"white","ticks":"","title":{"standoff":15},"zerolinecolor":"white","automargin":true,"zerolinewidth":2},"scene":{"xaxis":{"backgroundcolor":"#E5ECF6","gridcolor":"white","linecolor":"white","showbackground":true,"ticks":"","zerolinecolor":"white","gridwidth":2},"yaxis":{"backgroundcolor":"#E5ECF6","gridcolor":"white","linecolor":"white","showbackground":true,"ticks":"","zerolinecolor":"white","gridwidth":2},"zaxis":{"backgroundcolor":"#E5ECF6","gridcolor":"white","linecolor":"white","showbackground":true,"ticks":"","zerolinecolor":"white","gridwidth":2}},"shapedefaults":{"line":{"color":"#2a3f5f"}},"annotationdefaults":{"arrowcolor":"#2a3f5f","arrowhead":0,"arrowwidth":1},"geo":{"bgcolor":"white","landcolor":"#E5ECF6","subunitcolor":"white","showland":true,"showlakes":true,"lakecolor":"white"},"title":{"x":0.05},"mapbox":{"style":"light"},"margin":{"b":0,"l":0,"r":0,"t":30}}},"xaxis":{"anchor":"y","domain":[0.0,1.0],"title":{"text":"V0"}},"yaxis":{"anchor":"x","domain":[0.0,1.0],"title":{"text":"V1"}},"legend":{"title":{"text":"cluster"},"tracegroupgap":0,"itemsizing":"constant"}},                        {"responsive": true}                    ).then(function(){
+                            
+var gd = document.getElementById('1b7842e2-5824-4198-ba36-a4876bd7f5f9');
+var x = new MutationObserver(function (mutations, observer) {{
+        var display = window.getComputedStyle(gd).display;
+        if (!display || display === 'none') {{
+            console.log([gd, 'removed!']);
+            Plotly.purge(gd);
+            observer.disconnect();
+        }}
+}});
+
+// Listen for the removal of the full notebook cells
+var notebookContainer = gd.closest('#notebook-container');
+if (notebookContainer) {{
+    x.observe(notebookContainer, {childList: true});
+}}
+
+// Listen for the clearing of the current output cell
+var outputEl = gd.closest('.output');
+if (outputEl) {{
+    x.observe(outputEl, {childList: true});
+}}
+
+                        })                };                });            </script>        </div>
 </div>
 <figcaption class="quarto-float-caption-bottom quarto-float-caption quarto-float-fig" id="fig-python-packages-caption-0ceaefa1-69ba-4598-a22c-09a6ac19f8ca">
 Figure&nbsp;1: Scatterplot of Python package distances
 </figcaption>
 </figure>
-</div>
 </div>
 </div>
 

diff --git a/src/plots/plot_distances.py b/src/plots/plot_distances.py
@@ -1,10 +1,10 @@
 """
 GCP Public Datasets: Plot Package Distances
 Author: Trevor Cross
-Last Updated: 11/30/24
+Last Updated: 12/01/24
 
 Plot distances between packages (as calculated in preproc.py) with clustering legend (as
-calculated by cluster.py). Save figure locally.
+calculated by cluster.py). Save static image locally.
 """
 
 # ----------------------
@@ -18,7 +18,8 @@ import pandas as pd
 import os
 
 # import plotting libraries
-import seaborn as sns
+import plotly.express as px
+import plotly.io as pio
 
 # ---------------
 # ---Pull Data---
@@ -30,23 +31,25 @@ prod_path = os.path.join("data", "production", "clustered_packages.csv")
 # read data to df
 df = pd.read_csv(prod_path, index_col="package")
 
+# convert "cluster" col to str
+df["cluster"] = df["cluster"].astype(str)
+
 # ---------------
 # ---Plot Data---
 # ---------------
 
 # set plotting config
-sns.set_theme(style="darkgrid")
 size_scaler = 10**-3
 
 # plot scatterplot of package distances
-scatterplot = sns.scatterplot(
-    data=df,
-    x=df["V0"],
-    y=df["V1"],
+scatterplot = px.scatter(
+    data_frame=df,
+    x="V0",
+    y="V1",
     size=df["count"].apply(lambda x: size_scaler * x),
-    hue=df["cluster"],
-    palette=sns.color_palette("husl", len(df["cluster"].unique())),
-    legend=False,
+    color="cluster",
+    color_discrete_sequence=px.colors.qualitative.Bold,
+    category_orders={"cluster": sorted(df["cluster"].unique(), key=int)},
 )
 
 # -----------------
@@ -57,5 +60,4 @@ scatterplot = sns.scatterplot(
 plot_path = os.path.join("plots", "package_distances.png")
 
 # export plot
-sns_fig = scatterplot.get_figure()
-sns_fig.savefig(plot_path)
+pio.write_image(scatterplot, plot_path)

diff --git a/src/data/preproc.py b/src/data/preproc.py
@@ -1,7 +1,7 @@
 """
 GCP Public Datasets: Preprocess
 Author: Trevor Cross
-Last Updated: 11/30/24
+Last Updated: 12/03/24
 
 Pull Python package data from gcp-public-data-442116.github_repos_trans.py_packages,
 unnest packages array & truncate unpopular packages (these steps are performed by the

diff --git a/src/data/create_packages_table.py b/src/data/create_packages_table.py
@@ -1,7 +1,7 @@
 """
 GCP Public Datasets: Create Python Packages Table
 Author: Trevor Cross
-Last Updated: 11/24/24
+Last Updated: 12/03/24
 
 Programmatically create a table in BigQuery that contains extracted Python packages
 from gcp-public-data-442116.github_trans_repo.py_contents.

diff --git a/src/data/create_files_table.py b/src/data/create_files_table.py
@@ -1,7 +1,7 @@
 """
 GCP Public Datasets: Create Files Table
 Author: Trevor Cross
-Last Updated: 11/21/24
+Last Updated: 12/03/24
 
 Programmatically create a table in BigQuery that contains all file paths
 ending in ".py" from GCP public dataset (bigquery-public-data.github_repos).

diff --git a/src/data/pull_raw_metadata.py b/src/data/pull_raw_metadata.py
@@ -1,7 +1,7 @@
 """
 GCP Public Datasets: Get Raw Table Metadata
 Author: Trevor Cross
-Last Updated: 11/22/24
+Last Updated: 12/03/24
 
 Programmatically get metadata from raw BigQuery tables
 bigquery-public-data.github_repos.{files, .contents} and update params.yaml. This script

diff --git a/src/data/create_contents_table.py b/src/data/create_contents_table.py
@@ -1,7 +1,7 @@
 """
 GCP Public Datasets: Create Contents Table
 Author: Trevor Cross
-Last Updated: 11/24/24
+Last Updated: 12/03/24
 
 Programmatically create a table in BigQuery that contains the file contents of paths
 ending in ".py" from extracted GCP public dataset

diff --git a/src/models/cluster.py b/src/models/cluster.py
@@ -1,7 +1,7 @@
 """
 GCP Public Datasets: Cluster Package Distances
 Author: Trevor Cross
-Last Updated: 11/30/24
+Last Updated: 12/03/24
 
 Run clustering algorithm on package distances & export new data locally.
 """
